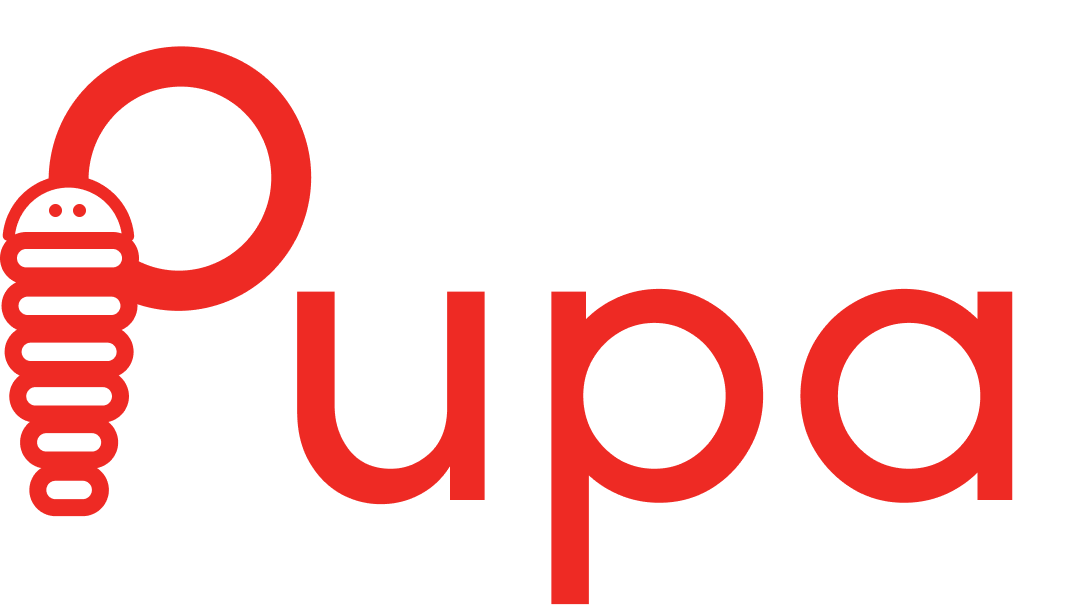
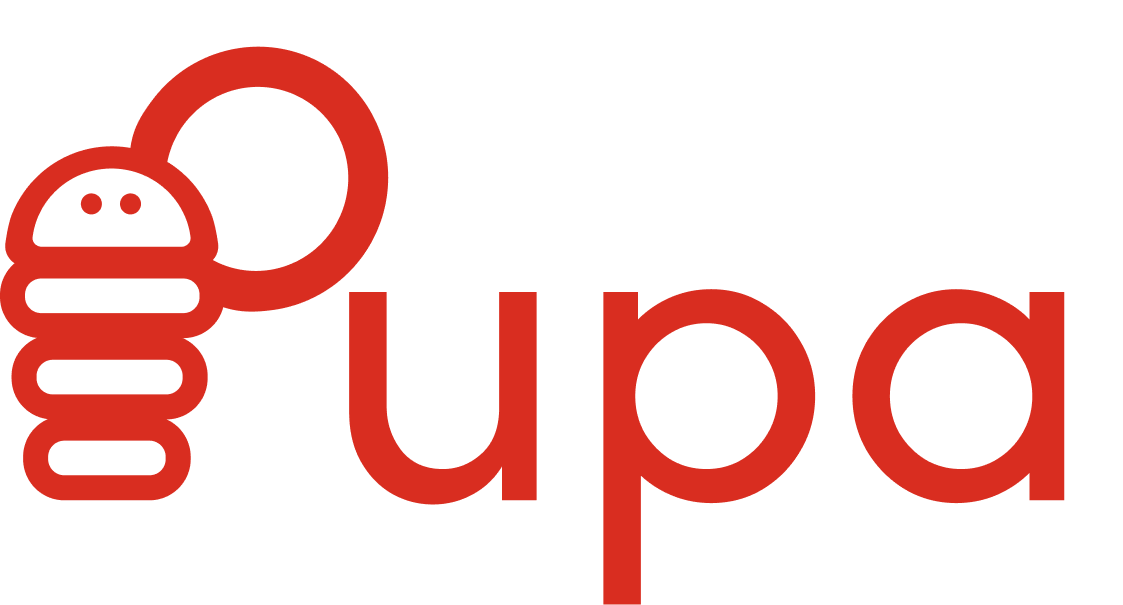
fix(memory): render .json notes verbatim, not as markdown (#228)
Every memory file was previewed through MarkdownUI, whose soft-break default
turns each newline into a space. A .json note collapsed into one reflowed
paragraph, lost its indentation, and had `*` / `#` inside string values eaten
as markup — including pupa/automations.json, which the app itself reads.

MemoryFileView now splits its preview on the extension via the new pure helper
MemoryFilenameHelper.rendersAsMarkdown: .md keeps the GitHub markdown column,
anything else renders verbatim as monospaced, horizontally scrolling code,
byte-identical to the edit buffer. Disk content was never affected.

New Note keeps a store-writable extension you type instead of always appending
.md, so `automations.json` no longer becomes `automations.json.md`. The sheet
reads MemoryStore.writableExtensions (now nonisolated) so the two can't drift;
`notes.v2` still gets .md.

TODO left at registerMemoryTools: tool descriptions still advertise
markdown-only while the store accepts .md + .json.

Also updates the README banner artwork / sizing and bumps to 0.0.225.

diff --git a/Pupa/Sources/PupaApp/Memory/MemoryFileView.swift b/Pupa/Sources/PupaApp/Memory/MemoryFileView.swift
@@ -1,9 +1,11 @@
 import SwiftUI
 import MarkdownUI
 
-/// Renders a single markdown file from the user's memories in a GitHub-style
-/// column. Supports an inline Edit / Preview toggle so the user can paste
-/// content directly into a note without going through the agent.
+/// Renders a single file from the user's memories. `.md` gets a GitHub-style
+/// markdown column; anything else (`.json`) is shown verbatim as monospaced,
+/// horizontally scrolling code so newlines and indentation survive. Supports an
+/// inline Edit / Preview toggle so the user can paste content directly into a
+/// note without going through the agent.
 ///
 /// **Concurrent edit safety.** If the agent rewrites the same file while the
 /// user is mid-edit, the user's `editBuffer` is preserved — their next Save
@@ -53,10 +55,12 @@ public struct MemoryFileView: View {
                             RoundedRectangle(cornerRadius: 6, style: .continuous)
                                 .strokeBorder(Color.secondary.opacity(0.25), lineWidth: 1)
                         )
-                } else {
+                } else if MemoryFilenameHelper.rendersAsMarkdown(path) {
                     Markdown(loadedContent)
                         .markdownTheme(.gitHub)
                         .textSelection(.enabled)
+                } else {
+                    codeView
                 }
             }
             .padding(24)
@@ -89,6 +93,30 @@ public struct MemoryFileView: View {
         isEditing && editBuffer != loadedContent
     }
 
+    /// Verbatim preview for non-markdown files. `Text` is left unconstrained so
+    /// it takes its unwrapped ideal width and long lines scroll instead of
+    /// reflowing; the background sits on the scroll view so it spans the column.
+    private var codeView: some View {
+        ScrollView(.horizontal, showsIndicators: true) {
+            Text(loadedContent)
+                .font(.system(.callout, design: .monospaced))
+                .textSelection(.enabled)
+                .fixedSize(horizontal: true, vertical: true)
+                .padding(16)
+        }
+        .frame(maxWidth: .infinity, alignment: .leading)
+        .background(
+            RoundedRectangle(cornerRadius: 6, style: .continuous)
+                .fill(Color.primary.opacity(0.06))
+        )
+    }
+
+    /// "Memory file" for markdown, "JSON file" otherwise.
+    private var kindLabel: String {
+        if MemoryFilenameHelper.rendersAsMarkdown(path) { return "Memory file" }
+        return "\((path as NSString).pathExtension.uppercased()) file"
+    }
+
     private var header: some View {
         HStack(alignment: .firstTextBaseline) {
             VStack(alignment: .leading, spacing: 4) {
@@ -96,7 +124,7 @@ public struct MemoryFileView: View {
                     .font(.title3.weight(.semibold))
                     .lineLimit(2)
                 HStack(spacing: 8) {
-                    Text("Memory file")
+                    Text(kindLabel)
                         .font(.caption)
                         .foregroundStyle(.secondary)
                     if hasUnsavedChanges {

diff --git a/Pupa/Sources/PupaApp/Memory/MemorySheets.swift b/Pupa/Sources/PupaApp/Memory/MemorySheets.swift
@@ -53,7 +53,7 @@ public struct NewMemoryNoteSheet: View {
         NavigationStack {
             Form {
                 Section("Name") {
-                    TextField("e.g. diet, workouts (\".md\" added if omitted)", text: $name)
+                    TextField("e.g. diet, workouts (\".md\" added unless you type .md / .json)", text: $name)
                         .focused($nameFocused)
                 }
                 Section("Content") {
@@ -291,13 +291,14 @@ public struct RenameMemorySheet: View {
 /// they're easy to unit-test without standing up a `MemoryStore`.
 public enum MemoryFilenameHelper {
     /// Compute the filename a new note should use. If the user typed a name,
-    /// trim it and ensure it ends in `.md`. Otherwise derive a slug from the
-    /// first non-empty content line (strip leading `#`/`-`/`*` markdown
+    /// trim it and ensure it ends in a store-writable extension (`.md` /
+    /// `.json`), appending `.md` otherwise. Without a name, derive a slug from
+    /// the first non-empty content line (strip leading `#`/`-`/`*` markdown
     /// markers). Falls back to `"untitled.md"` only if both are empty.
     public static func resolveFilename(name: String, content: String) -> String {
         let trimmedName = name.trimmingCharacters(in: .whitespacesAndNewlines)
         if !trimmedName.isEmpty {
-            return ensureMarkdownExtension(trimmedName)
+            return ensureSupportedExtension(trimmedName)
         }
         if let firstLine = content
             .components(separatedBy: .newlines)
@@ -350,7 +351,19 @@ public enum MemoryFilenameHelper {
         return String(out)
     }
 
-    private static func ensureMarkdownExtension(_ name: String) -> String {
-        name.lowercased().hasSuffix(".md") ? name : "\(name).md"
+    /// True when a memory file should be previewed as rendered markdown. Only
+    /// `.md` and extensionless files qualify — everything else (`.json`, or an
+    /// arbitrary extension smuggled in by a rename) is shown verbatim as code,
+    /// since markdown rendering eats its newlines and indentation.
+    public static func rendersAsMarkdown(_ path: String) -> Bool {
+        let ext = (path as NSString).pathExtension.lowercased()
+        return ext.isEmpty || ext == "md"
+    }
+
+    /// Keep an extension the store can write (`MemoryStore.writableExtensions`);
+    /// append `.md` to anything else, so `notes.v2` → `notes.v2.md`.
+    private static func ensureSupportedExtension(_ name: String) -> String {
+        let ext = (name as NSString).pathExtension.lowercased()
+        return MemoryStore.writableExtensions.contains(ext) ? name : "\(name).md"
     }
 }

diff --git a/Pupa/Sources/PupaApp/Skills/GuideSkills.swift b/Pupa/Sources/PupaApp/Skills/GuideSkills.swift
@@ -15,7 +15,7 @@ import Foundation
 /// component-kind list is generated from `MyAppType.kinds` so it can't drift.
 enum GuideSkills {
     /// Bump when any guide body changes so existing installs re-seed.
-    static let version = "11"
+    static let version = "12"
 
     /// The plugin folder holding this guide's skills.
     static let pluginDir = "\(MemoryStore.pupaPluginsDir)/pupa-guide"
@@ -182,10 +182,11 @@ enum GuideSkills {
         description: "How Pupa remembers: memories, sessions, change history, archive",
         whenToUse: "when asked what persists, how to undo changes, or how to hide an app"
     ))
-    - **Memories** — a filesystem-like tree of markdown notes and folders
-      that lives *inside* the app, not on the device's file system. Browse
-      and edit it from the Memories tab; the agent reads and writes it too.
-      Persists across sessions.
+    - **Memories** — a filesystem-like tree of notes and folders that lives
+      *inside* the app, not on the device's file system. Notes are markdown
+      (`.md`); config notes can be `.json` and show verbatim as code, so
+      indentation survives. Browse and edit it from the Memories tab; the agent
+      reads and writes it too. Persists across sessions.
     - **Sessions** — "New session" starts a fresh conversation. The canvas
       and memories stay. Past conversations are kept on-device and re-open with
       their full history when you reopen the app — even after a long time away.

diff --git a/Pupa/Tests/PupaAppTests/MemorySheetsHelperTests.swift b/Pupa/Tests/PupaAppTests/MemorySheetsHelperTests.swift
@@ -27,6 +27,33 @@ struct MemorySheetsHelperTests {
             == "notes.md")
     }
 
+    @Test("Explicit .json name is kept — the store allows md + json")
+    func explicitNameKeepsJsonExtension() {
+        #expect(MemoryFilenameHelper.resolveFilename(name: "automations.json", content: "")
+            == "automations.json")
+        #expect(MemoryFilenameHelper.resolveFilename(name: "Data.JSON", content: "")
+            == "Data.JSON")
+    }
+
+    @Test("Non-allowlisted extensions still get .md appended")
+    func unsupportedExtensionGetsMdSuffix() {
+        #expect(MemoryFilenameHelper.resolveFilename(name: "notes.v2", content: "")
+            == "notes.v2.md")
+        #expect(MemoryFilenameHelper.resolveFilename(name: "run.py", content: "")
+            == "run.py.md")
+    }
+
+    // MARK: - Render mode
+
+    @Test("Only .md and extensionless files render as markdown")
+    func rendersAsMarkdownByExtension() {
+        #expect(MemoryFilenameHelper.rendersAsMarkdown("diet.md"))
+        #expect(MemoryFilenameHelper.rendersAsMarkdown("pupa/AGENTS.MD"))
+        #expect(MemoryFilenameHelper.rendersAsMarkdown("notes"))
+        #expect(!MemoryFilenameHelper.rendersAsMarkdown("pupa/automations.json"))
+        #expect(!MemoryFilenameHelper.rendersAsMarkdown("x.py"))
+    }
+
     @Test("Falls back to slug derived from the first non-empty content line")
     func slugFromFirstContentLine() {
         let result = MemoryFilenameHelper.resolveFilename(

diff --git a/Pupa/Tests/PupaAppTests/MemoryStoreJsonWriteTests.swift b/Pupa/Tests/PupaAppTests/MemoryStoreJsonWriteTests.swift
@@ -21,6 +21,22 @@ struct MemoryStoreJsonWriteTests {
         #expect(store.fileExists(at: "pupa/AGENTS.md"))
     }
 
+    @Test("Multi-line JSON round-trips byte-exact, indentation and trailing newline kept")
+    func multiLineJsonRoundTrip() throws {
+        let store = tempStore()
+        let json = """
+        {"automations":{"item.moved":[
+          {"id":"today-on-move",
+           "matcher":{"toColumn":"Today"},
+           "action":{"startThread":{"prompt":"Today! *now* #1"}},
+           "confirm":true}
+        ]}}
+
+        """
+        try store.writeFile(path: "pupa/automations.json", content: json)
+        #expect(try store.readFile(path: "pupa/automations.json").content == json)
+    }
+
     @Test("Non-allowlisted extensions are rejected")
     func rejectsOtherExtensions() {
         let store = tempStore()

diff --git a/Pupa/Sources/PupaApp/Tools/AppTools.swift b/Pupa/Sources/PupaApp/Tools/AppTools.swift
@@ -1459,6 +1459,12 @@ public enum AppTools {
         ))
     }
 
+    // TODO: memory tool descriptions are misaligned with the store. They say
+    // markdown-only ("must end in .md", "Read a markdown file", "Search markdown
+    // files") while `MemoryStore.writableExtensions` accepts `.md` + `.json` and
+    // `pupa/automations.json` ships that way — so the model is told it can't write
+    // a file the app itself relies on. Widen the descriptions (and `grepMemories`'
+    // glob wording) to both extensions in one pass.
     public static func registerMemoryTools(on registry: ToolRegistry, memory: MemoryStore) {
         registry.register(ClientTool(
             descriptor: ToolDescriptor(

diff --git a/Pupa/Sources/PupaApp/Memory/MemoryStore.swift b/Pupa/Sources/PupaApp/Memory/MemoryStore.swift
@@ -253,7 +253,7 @@ public final class MemoryStore {
     /// File extensions the agent may write. Config is JSON-shaped; everything
     /// else stays markdown. Executable/free-format types are intentionally
     /// excluded (marketplace import threat surface; nothing executes them).
-    static let writableExtensions: Set<String> = ["md", "json"]
+    nonisolated static let writableExtensions: Set<String> = ["md", "json"]
 
     /// Top-level folder for a myApp: `<slug>` (e.g. `"my-fitness-app"`).
     public nonisolated static func myAppFolder(myAppName: String) -> String {

diff --git a/Pupa/Sources/PupaApp/Version.swift b/Pupa/Sources/PupaApp/Version.swift
@@ -2,4 +2,4 @@
 ///
 /// Bumps follow patch-only semantics within the pupa project (only the
 /// last component changes unless explicitly told otherwise).
-public let PupaAppVersion: String = "0.0.224"
+public let PupaAppVersion: String = "0.0.225"

diff --git a/docs/architecture.md b/docs/architecture.md
@@ -162,7 +162,14 @@ without the agent: the header `+` menu adds a Note / Folder at the scope root; a
 folder row's long-press menu adds inside it; any row can be renamed / moved or
 deleted. Rows funnel these through `MemoryRowActions` into the shared
 `MemorySheet` shells (`New*MemorySheet` / `RenameMemorySheet`) and a delete
-confirmation over `MemoryStore`), **History**
+confirmation over `MemoryStore`. A new note keeps a store-writable extension you
+type (`.md` / `.json`, per `MemoryStore.writableExtensions`) and gets `.md`
+otherwise — `MemoryFilenameHelper.resolveFilename`. `MemoryFileView` splits its
+preview on that extension via `MemoryFilenameHelper.rendersAsMarkdown`: `.md`
+renders through MarkdownUI, anything else verbatim as monospaced h-scrolling code
+— markdown's soft-break-as-space would otherwise flatten a `.json` note's
+newlines and indentation. Edit mode is a monospaced `TextEditor` either way, so
+preview and buffer match byte for byte), **History**
 (`clock`, pushes `ChangeHistoryView` via `.myAppHistory` — **myApp only**; the
 orchestrator has no canvas change-log so it omits this), the **Pupa** chat launcher (toggles
 `AppView.chatOpen`, carrying the scope's `StatusBadge`), and a **⋯** menu that

diff --git a/README.md b/README.md
@@ -1,10 +1,10 @@
 <p align="center">
-  <img src="docs/assets/pupa-icon.png" alt="Pupa" width="160" height="160" />
+  <img src="docs/assets/pupa-icon.png" alt="Pupa" width="280" />
 </p>
 
 # Pupa
 
-[![Pupa](https://img.shields.io/badge/Pupa-0.0.224-000000?logo=apple&logoColor=white)](Pupa/Sources/PupaApp/Version.swift)
+[![Pupa](https://img.shields.io/badge/Pupa-0.0.225-000000?logo=apple&logoColor=white)](Pupa/Sources/PupaApp/Version.swift)
 [![AGUIKit](https://img.shields.io/badge/AGUIKit-0.0.27-f05138?logo=swift&logoColor=white)](AGUIKit/Sources/AGUIKit/Version.swift)
 
 Native iOS / macOS client for the Pupa agent: a SwiftUI canvas that
@@ -29,7 +29,7 @@ SSE stream.
 
 | Component | Version | Where |
 |---|---|---|
-| **Pupa iOS / macOS app** (SwiftUI) | `0.0.224` | [`Pupa/Sources/PupaApp/Version.swift`](Pupa/Sources/PupaApp/Version.swift) |
+| **Pupa iOS / macOS app** (SwiftUI) | `0.0.225` | [`Pupa/Sources/PupaApp/Version.swift`](Pupa/Sources/PupaApp/Version.swift) |
 | **AGUIKit** (Swift Package — AG-UI client) | `0.0.27` | [`AGUIKit/Sources/AGUIKit/Version.swift`](AGUIKit/Sources/AGUIKit/Version.swift) |
 
 Patch-only bumps (`0.0.X` → `0.0.X+1`). See [CHANGELOG.md](CHANGELOG.md)

diff --git a/CHANGELOG.md b/CHANGELOG.md
@@ -3,6 +3,24 @@
 All notable changes to the Pupa iOS / macOS repo are documented here.
 Format: [Keep a Changelog](https://keepachangelog.com/en/1.1.0/) — patch-only bumps (`0.0.X` → `0.0.X+1`).
 
+## [0.0.225] — 2026-07-30
+
+### Fixed
+
+- **JSON memory files keep their line breaks and indentation.** Every memory
+  file was previewed through the markdown renderer, whose soft-break default
+  turns each newline into a space — a `.json` note (e.g. `pupa/automations.json`)
+  collapsed into one reflowed paragraph, lost its indentation, and had `*` / `#`
+  inside string values eaten as markup. Non-markdown files now render verbatim
+  as monospaced, horizontally scrolling code, byte-identical to the editor. Disk
+  content was never affected.
+
+### Added
+
+- **New Note accepts a `.json` name.** Typing `automations.json` used to produce
+  `automations.json.md`; the sheet now keeps any extension the store can write
+  (`.md` / `.json`) and appends `.md` to everything else.
+
 ## [0.0.224] — 2026-07-30
 
 ### Fixed
